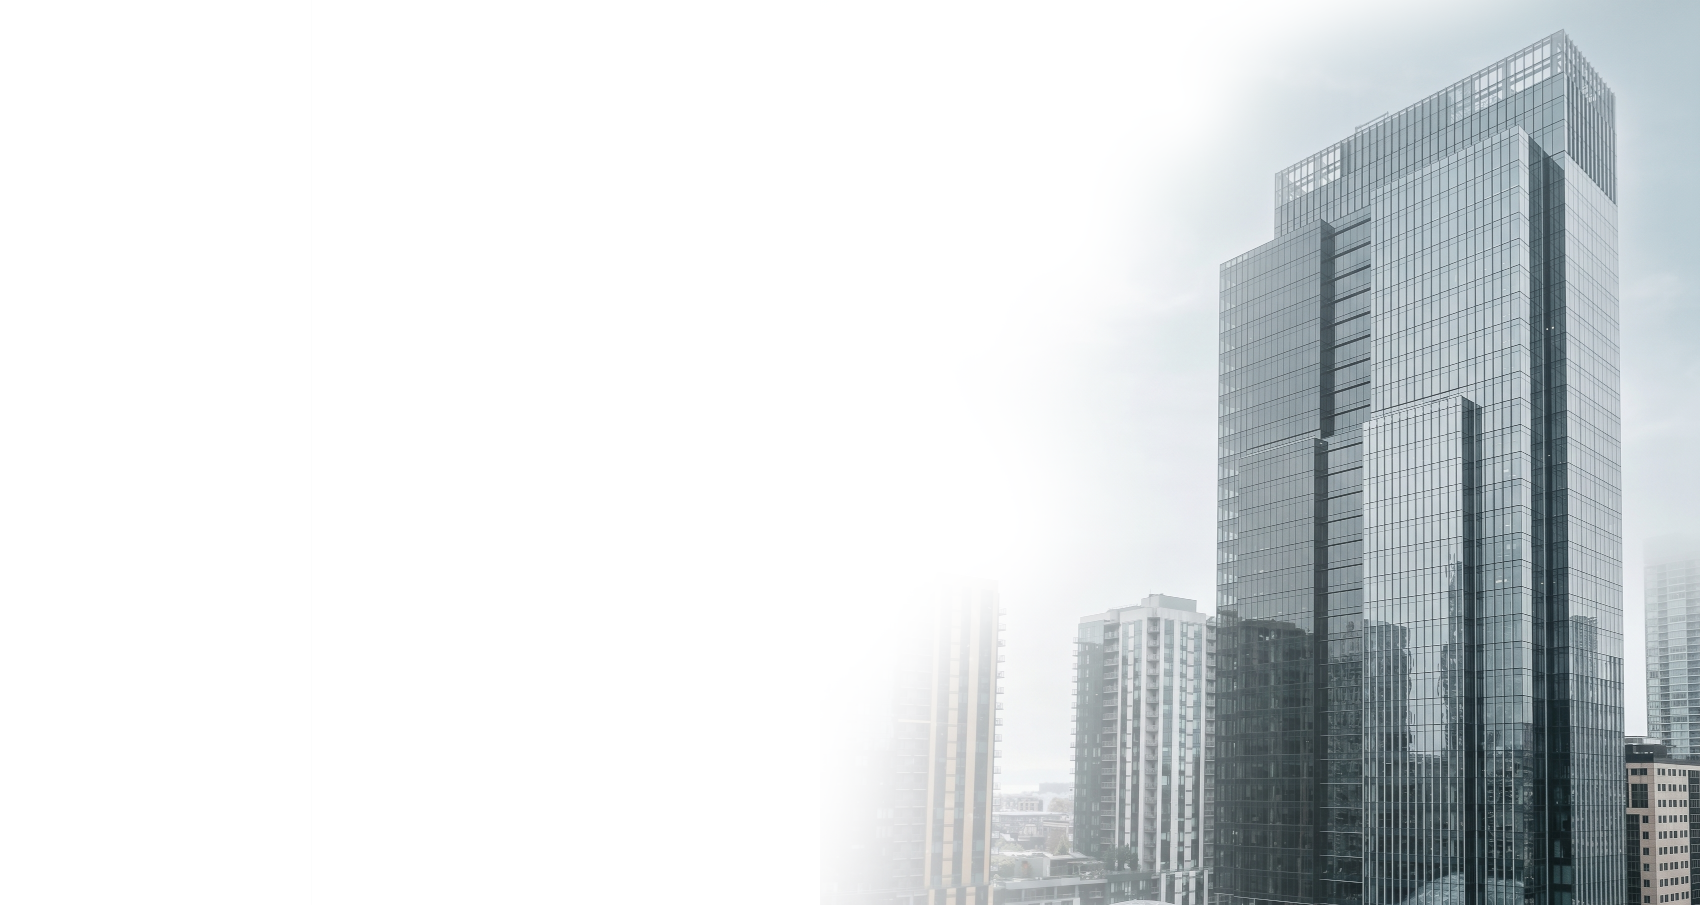
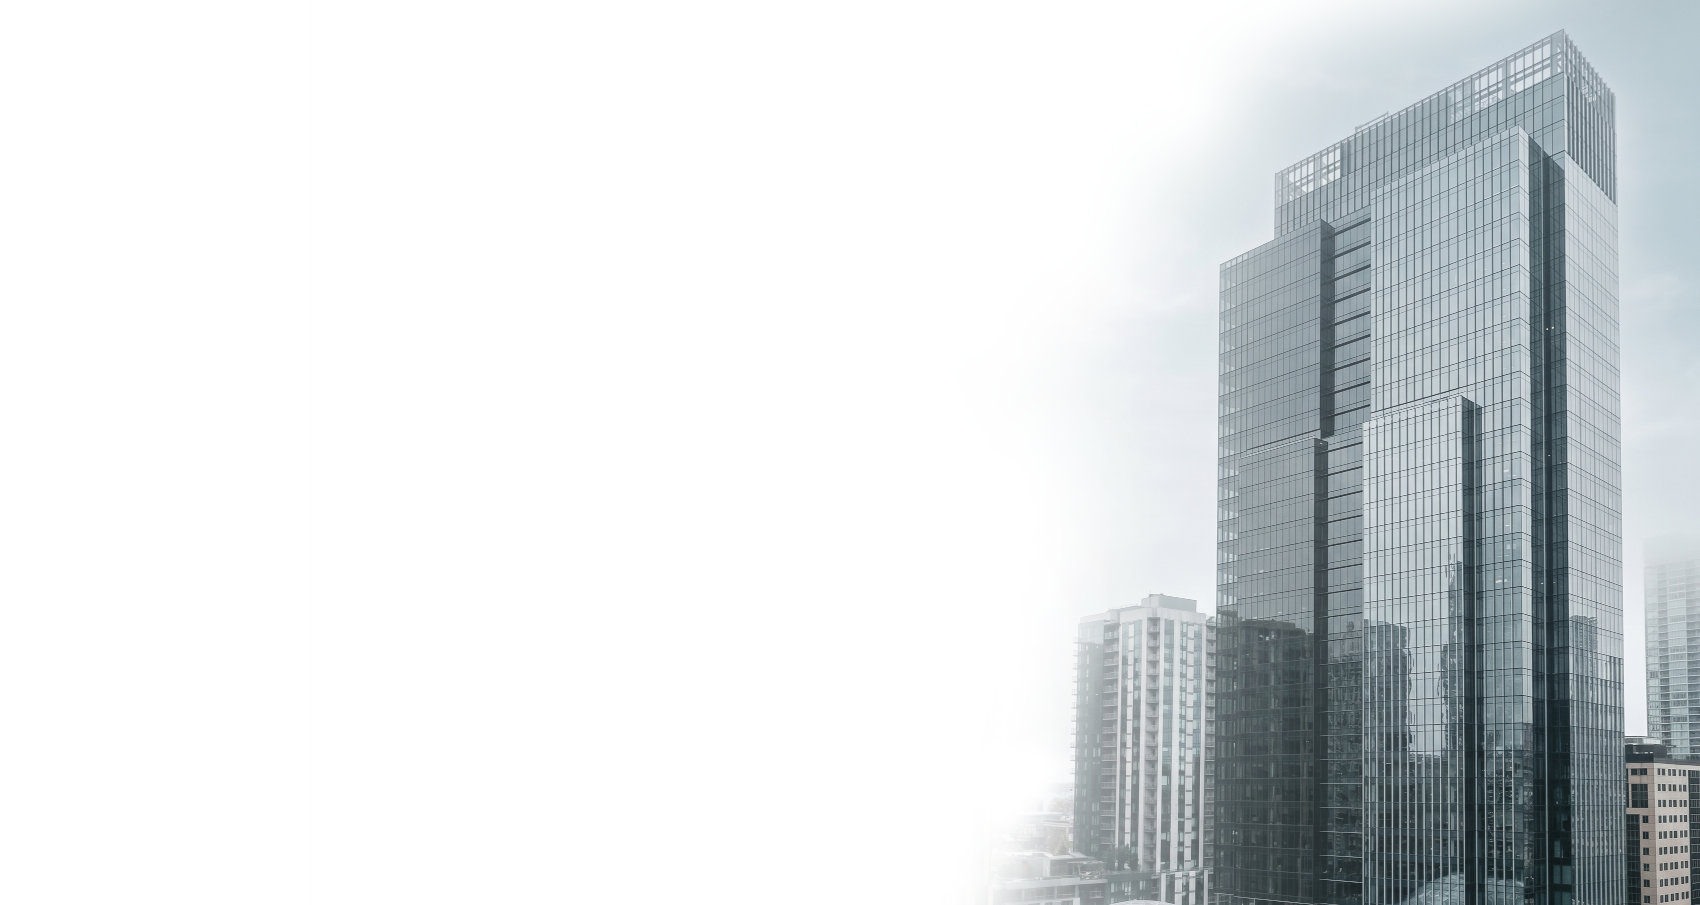
style: set background color of EmotionalHook section to #10192E

Changed region(s): [[0.4988, 0.6807, 0.6235, 1.0]]

diff --git a/src/components/landing/EmotionalHook.tsx b/src/components/landing/EmotionalHook.tsx
@@ -12,21 +12,21 @@ export default function EmotionalHook() {
   return (
     <section style={{ 
       position: 'relative',
-      padding: '4rem 2rem 8rem',
-      background: 'linear-gradient(to bottom, transparent 50%, var(--bg-glass) 50%)'
+      padding: '5rem 2rem',
+      background: '#10192E'
     }}>
       <div style={{ 
         maxWidth: '900px',
         margin: '0 auto',
         padding: '3.5rem 3rem',
-        background: '#ffffff',
+        background: '#10192E',
         borderRadius: '24px',
-        boxShadow: 'inset 8px 8px 20px rgba(0, 0, 0, 0.08), inset -8px -8px 20px rgba(255, 255, 255, 0.6)',
-        border: '1px solid rgba(0, 0, 0, 0.05)',
+        boxShadow: '0 20px 40px rgba(0, 0, 0, 0.4)',
+        border: '1px solid rgba(255, 255, 255, 0.1)',
         position: 'relative',
         zIndex: 1
       }}>
-        <h2 style={{ fontSize: 'clamp(2rem, 3.5vw, 2.5rem)', color: '#0f172a', textAlign: 'center', marginBottom: '2.5rem', fontWeight: 700 }}>
+        <h2 style={{ fontSize: 'clamp(2rem, 3.5vw, 2.5rem)', color: '#ffffff', textAlign: 'center', marginBottom: '2.5rem', fontWeight: 700 }}>
           Wake Up to New Opportunities
         </h2>
 
@@ -34,7 +34,7 @@ export default function EmotionalHook() {
           {tasks.map((task, idx) => (
             <div key={idx} style={{ display: 'flex', alignItems: 'center', gap: '1rem' }}>
               <Check size={20} color="#10b981" strokeWidth={3} style={{ flexShrink: 0 }} />
-              <span style={{ color: '#334155', fontSize: '1.1rem', fontWeight: 500 }}>{task}</span>
+              <span style={{ color: '#e2e8f0', fontSize: '1.1rem', fontWeight: 500 }}>{task}</span>
             </div>
           ))}
         </div>